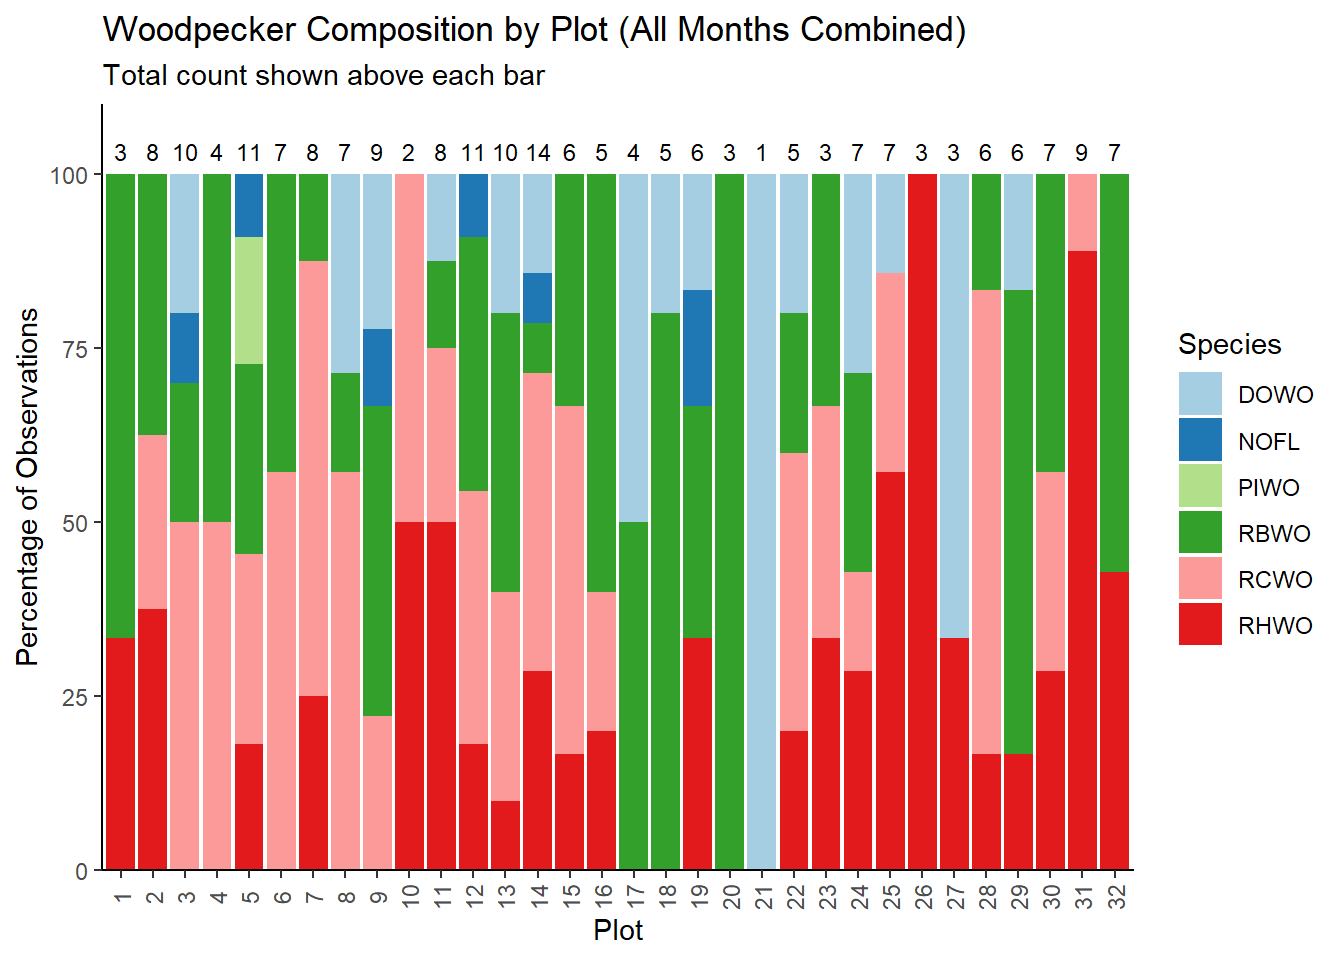
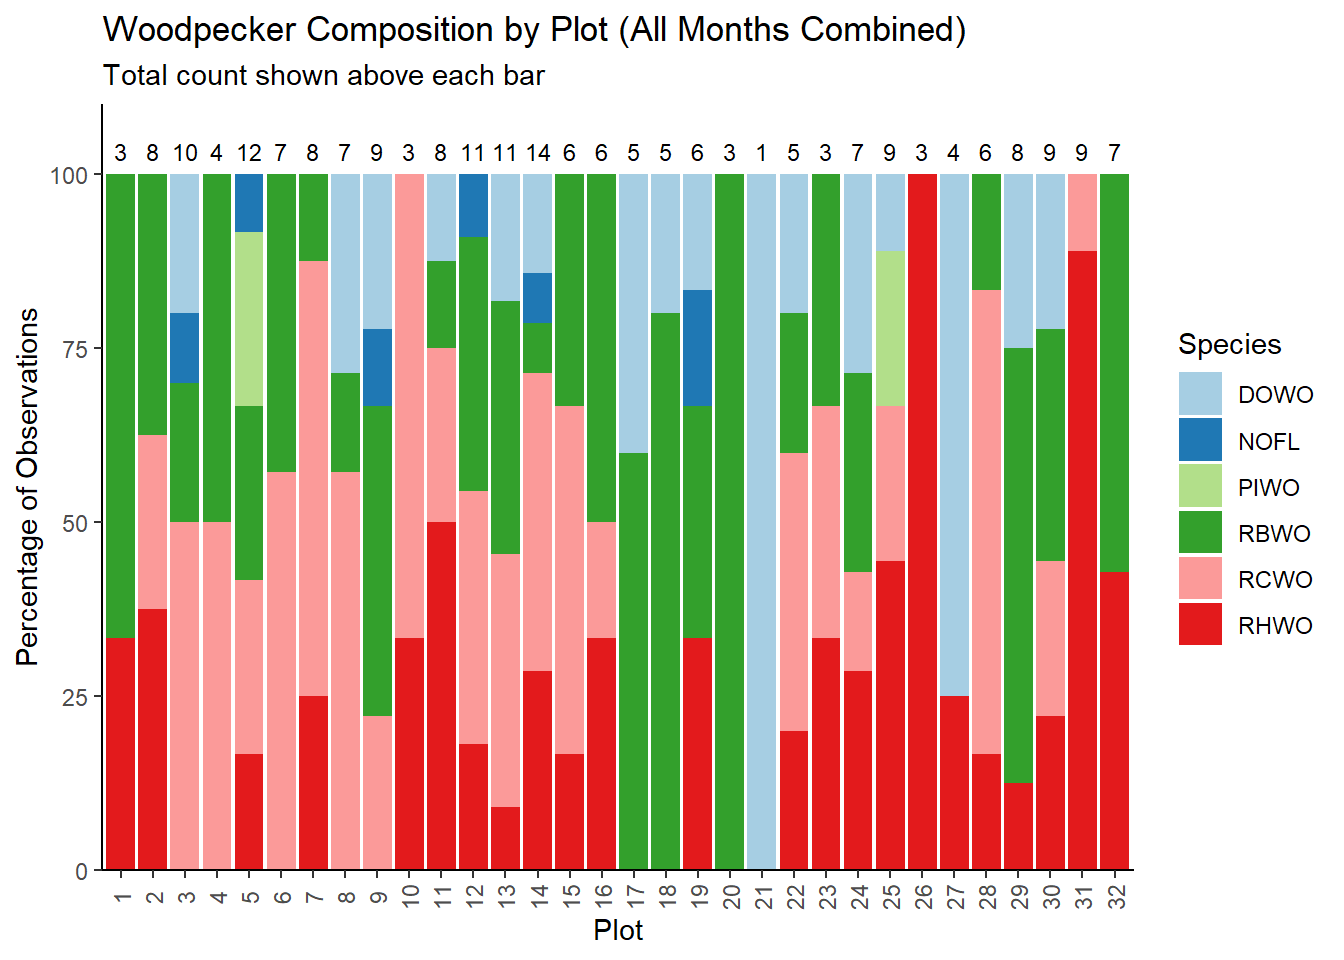
update data

diff --git a/docs/woodpecker_obs.html b/docs/woodpecker_obs.html
@@ -210,7 +210,7 @@ Table: April observations by species and plot
 <h1>May Observations</h1>
 <div class="cell">
 <div class="cell-output cell-output-stdout">
-<pre><code>Plot(s) with no observations include:  1, 2, 3, 4, 5, 6, 8, 9, 10, 11, 12, 13, 14, 15, 16, 17, 18, 19, 20, 21, 22, 23, 24, 25, 26, 27, 29, 32</code></pre>
+<pre><code>Plot(s) with no observations include:  1, 2, 3, 4, 6, 8, 9, 11, 12, 14, 15, 18, 19, 20, 21, 22, 23, 24, 26, 32</code></pre>
 </div>
 </div>
 <div class="cell">
@@ -221,9 +221,11 @@ Table: April observations by species and plot
 
 |Species |  1|  2|  3|  4|  5|  6|  7|  8|  9| 10| 11| 12| 13| 14| 15| 16| 17| 18| 19| 20| 21| 22| 23| 24| 25| 26| 27| 28| 29| 30| 31| 32|
 |:-------|--:|--:|--:|--:|--:|--:|--:|--:|--:|--:|--:|--:|--:|--:|--:|--:|--:|--:|--:|--:|--:|--:|--:|--:|--:|--:|--:|--:|--:|--:|--:|--:|
-|RBWO    |  0|  0|  0|  0|  0|  0|  0|  0|  0|  0|  0|  0|  0|  0|  0|  0|  0|  0|  0|  0|  0|  0|  0|  0|  0|  0|  0|  0|  0|  1|  0|  0|
-|RCWO    |  0|  0|  0|  0|  0|  0|  2|  0|  0|  0|  0|  0|  0|  0|  0|  0|  0|  0|  0|  0|  0|  0|  0|  0|  0|  0|  0|  1|  0|  0|  0|  0|
-|RHWO    |  0|  0|  0|  0|  0|  0|  0|  0|  0|  0|  0|  0|  0|  0|  0|  0|  0|  0|  0|  0|  0|  0|  0|  0|  0|  0|  0|  0|  0|  0|  2|  0|</code></pre>
+|DOWO    |  0|  0|  0|  0|  0|  0|  0|  0|  0|  0|  0|  0|  0|  0|  0|  0|  0|  0|  0|  0|  0|  0|  0|  0|  0|  0|  1|  0|  1|  2|  0|  0|
+|PIWO    |  0|  0|  0|  0|  1|  0|  0|  0|  0|  0|  0|  0|  0|  0|  0|  0|  0|  0|  0|  0|  0|  0|  0|  0|  2|  0|  0|  0|  0|  0|  0|  0|
+|RBWO    |  0|  0|  0|  0|  0|  0|  0|  0|  0|  0|  0|  0|  0|  0|  0|  0|  1|  0|  0|  0|  0|  0|  0|  0|  0|  0|  0|  0|  1|  1|  0|  0|
+|RCWO    |  0|  0|  0|  0|  0|  0|  2|  0|  0|  1|  0|  0|  1|  0|  0|  0|  0|  0|  0|  0|  0|  0|  0|  0|  0|  0|  0|  1|  0|  0|  0|  0|
+|RHWO    |  0|  0|  0|  0|  0|  0|  0|  0|  0|  0|  0|  0|  0|  0|  0|  1|  0|  0|  0|  0|  0|  0|  0|  0|  0|  0|  0|  0|  0|  0|  2|  0|</code></pre>
 </div>
 </div>
 </section>
